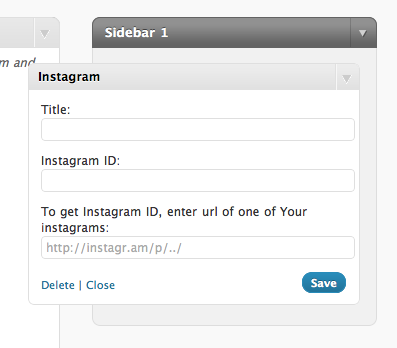
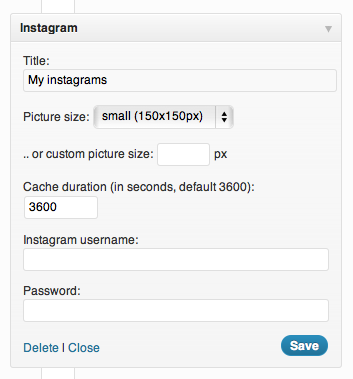
update to 0.3
git-svn-id: https://plugins.svn.wordpress.org/instagram-for-wordpress/trunk@461407 b8457f37-d9ea-0310-8a92-e5e31aec5664

diff --git a/wpinstagram.php b/wpinstagram.php
@@ -3,31 +3,31 @@
 	Plugin Name: Instagram for Wordpress
 	Plugin URI: http://wordpress.org/extend/plugins/instagram-for-wordpress/
 	Description: Simple sidebar widget that shows Your latest 20 instagr.am pictures and picture embedder.
-	Version: 0.2.7
+	Version: 0.3
 	Author: Eriks Remess
 	Author URI: http://twitter.com/EriksRemess
 */
 add_filter('plugin_row_meta', 'instagram_add_flattr_link', 10, 2);
 function instagram_add_flattr_link($links, $file){
 	$plugin = plugin_basename(__FILE__);
-	if($file == $plugin){
+	if($file == $plugin):
 		$links[] = '<a href="http://flattr.com/thing/124992/Instagr-am-WordPress-sidebar-widget" target="_blank">Flattr this</a>';
 		$links[] = '<a href="https://www.paypal.com/cgi-bin/webscr?cmd=_s-xclick&hosted_button_id=QBQQ8CTBF24C8" targer="_blank">Donate</a>';
-	}
+	endif;
 	return $links;
 }
 
 add_shortcode('instagram', 'instagram_embed_shortcode');
 function instagram_embed_shortcode($atts, $content = null){
-		
+
 	extract(shortcode_atts(array(
 		'url' => '',
 		'size' => 'middle',
 		'addlink' => 'yes'
 		), $atts));
-	
-	if(($url != '')&&(preg_match('/^http:\/\/instagr\.am\/p\/[a-zA-Z0-9-_]+\/$/', $url))) {
-		switch($size) {
+
+	if(($url != '')&&(preg_match('/^http:\/\/instagr\.am\/p\/[a-zA-Z0-9-_]+\/$/', $url))):
+		switch($size):
 			case 'large':
 				$maxwidth = 612;
 				break;
@@ -38,27 +38,28 @@ function instagram_embed_shortcode($atts, $content = null){
 			default:
 				$maxwidth = 306;
 				break;
-		}
+		endswitch;
 		$oembed_url = "http://instagr.am/api/v1/oembed/?url=".rawurlencode($url)."&maxwidth=".$maxwidth;
 		$ch = curl_init($oembed_url);
-		if(ini_get("open_basedir") == ""){
+		if(ini_get("open_basedir") == ""):
 			curl_setopt($ch, CURLOPT_FOLLOWLOCATION, 1);
-		}
+		endif;
 		curl_setopt($ch, CURLOPT_HEADER, 0);
 		curl_setopt($ch, CURLOPT_RETURNTRANSFER, 1);
-		curl_setopt($ch, CURLOPT_USERAGENT, "Instagram 1.18.17 (iPhone; iPhone OS 4.3.2; lv_LV)");
 		$data = curl_exec($ch);
 		$httpcode = curl_getinfo($ch, CURLINFO_HTTP_CODE);
-		if($httpcode >= 200 && $httpcode < 400){
+		if($httpcode >= 200 && $httpcode < 400):
 			$data = json_decode($data);
-			if($data->url){
+			if($data->url):
 				$html = '<img src="'.$data->url.'"'.($data->title!=''?' alt="'.$data->title.'"':'').' width="'.$maxwidth.'" height="'.$maxwidth.'" />';
-				if($addlink == 'yes') {
+				if($addlink == 'yes'):
 					return '<a href="'.$url.'"'.($data->title!=''?' title="'.$data->title.'"':'').'>'.$html.'</a>';
-				} else return $html;
-			}
-		}
-	}
+				else:
+					return $html;
+				endif;
+			endif;
+		endif;
+	endif;
 	return null;
 }
 
@@ -72,127 +73,122 @@ class WPInstagram_Widget extends WP_Widget {
 		$widget_ops = array( 'classname' => 'wpinstagram', 'description' => __('Displays latest 20 instagrams.', 'wpinstagram') );
 		$control_ops = array( 'width' => 300, 'height' => 350, 'id_base' => 'wpinstagram-widget' );
 		$this->WP_Widget( 'wpinstagram-widget', __('Instagram', 'wpinstagram'), $widget_ops, $control_ops );
-		
-		if( is_active_widget( '', '', 'wpinstagram-widget' ) ) {
-			$this->wpinstagram_path = get_bloginfo('wpurl').'/'.Str_Replace("\\", '/', SubStr(RealPath(DirName(__FILE__)), Strlen(ABSPATH)));
+
+		if(is_active_widget('','','wpinstagram-widget')&&!is_admin()):
+			$this->wpinstagram_path = plugin_dir_url( __FILE__ );
 			wp_enqueue_script("jquery");
-			wp_enqueue_script("jquery.cycle", $this->wpinstagram_path."/js/jquery.cycle-2.94.min.js", Array('jquery'), '2.94');
-			wp_enqueue_script("jquery.mousewhell", $this->wpinstagram_path."/js/jquery.mousewheel-3.0.4.pack.js", Array('jquery'), '3.0.4');
-			wp_enqueue_style("wpinstagram", $this->wpinstagram_path."/wpinstagram.css", Array(), '0.2.5');
-			if( in_array( 'fancybox-for-wordpress/fancybox.php', (array) get_option( 'active_plugins', array() ) ) == false ) {
-				wp_enqueue_script("fancybox", $this->wpinstagram_path."/js/jquery.fancybox-1.3.4.pack.js", Array('jquery'), '1.3.4');
-				wp_enqueue_style("fancybox-css", $this->wpinstagram_path."/js/fancybox/jquery.fancybox-1.3.4.css", Array(), '1.3.4');
-				wp_enqueue_script("jquery.easing", $this->wpinstagram_path."/js/jquery.easing-1.3.pack.js", Array('jquery'), '1.3');
-				wp_enqueue_script("wpinstagram", $this->wpinstagram_path."/js/wpinstagram.js", Array('jquery', 'jquery.cycle', 'fancybox'), '0.2.5');
-			} else {
-				wp_enqueue_script("wpinstagram", $this->wpinstagram_path."/js/wpinstagram-without-fancybox.js", Array('jquery',  'jquery.cycle'), '0.2.5');
-			}
-		}
-		
+			wp_enqueue_script("jquery.cycle", $this->wpinstagram_path."js/jquery.cycle-2.94.min.js", Array('jquery'), '2.94');
+			wp_enqueue_script("jquery.mousewhell", $this->wpinstagram_path."js/jquery.mousewheel-3.0.4.pack.js", Array('jquery'), '3.0.4');
+			wp_enqueue_style("wpinstagram", $this->wpinstagram_path."wpinstagram.css", Array(), '0.2.5');
+			if(in_array('fancybox-for-wordpress/fancybox.php',(array)get_option('active_plugins',array()))==false):
+				wp_enqueue_script("fancybox", $this->wpinstagram_path."js/jquery.fancybox-1.3.4.pack.js", Array('jquery'), '1.3.4');
+				wp_enqueue_style("fancybox-css", $this->wpinstagram_path."js/fancybox/jquery.fancybox-1.3.4.css", Array(), '1.3.4');
+				wp_enqueue_script("jquery.easing", $this->wpinstagram_path."js/jquery.easing-1.3.pack.js", Array('jquery'), '1.3');
+				wp_enqueue_script("wpinstagram", $this->wpinstagram_path."js/wpinstagram.js", Array('jquery', 'jquery.cycle', 'fancybox'), '0.3');
+			else:
+				wp_enqueue_script("wpinstagram", $this->wpinstagram_path."js/wpinstagram-without-fancybox.js", Array('jquery',  'jquery.cycle'), '0.3');
+			endif;
+		endif;
+
 	}
 
 	function widget( $args, $instance ) {
 		extract( $args );
 		$title = apply_filters('widget_title', $instance['title']);
-		$id = $instance['id'];
-		$cacheduration = $instance['cacheduration'];
-		if(!intval($cacheduration) || $cacheduration == ""){
-			$cacheduration = 3600;
-		}
-
-		if($id){
+		$cacheduration = (!intval($instance['cacheduration'])||$instance['cacheduration'] == "")?3600:$cacheduration;
+		if(isset($instance['access_token'])):
+			$id = $instance['id'];
 			$images = wp_cache_get('instagrams_'.$id, 'wpinstagram_cache');
-			if(false == $images) {
+			if(false == $images):
 				$images = $this->instagram_get_latest($instance);
 				wp_cache_set('instagrams_'.$id, $images, 'wpinstagram_cache', $cacheduration);
-			}
-			if(!empty($images)){
+			endif;
+			$images = $this->instagram_get_latest($instance);
+			if(!empty($images)):
 				echo $before_widget;
-				if($title){
+				if($title):
 					echo $before_title.$title.$after_title;
-				}
+				endif;
 				echo '<ul class="wpinstagram">';
-				foreach($images as $image){
+				foreach($images as $image):
 					echo '<li><a href="'.$image['image_large'].'" title="'.$image['title'].'" rel="wpinstagram">';
-					if($instance['customsize'] != ""){
-						if($instance['customsize'] <= 150){
-							echo '<img src="'.$image["image_small"].'" alt="'.$image['title'].'" width="'.$instance['customsize'].'" height="'.$instance['customsize'].'" />';
-						} elseif($instance['customsize'] <= 306 && $instance['customsize'] > 150){
-							echo '<img src="'.$image["image_middle"].'" alt="'.$image['title'].'" width="'.$instance['customsize'].'" height="'.$instance['customsize'].'" />';
-						} elseif($instance['customsize'] > 306){
-							echo '<img src="'.$image["image_large"].'" alt="'.$image['title'].'" width="'.$instance['customsize'].'" height="'.$instance['customsize'].'" />';
-						}
-					} else {
-						switch($instance['size']){
+					if($instance['customsize'] != ""):
+						$imagesize = $instance['customsize'];
+						if($instance['customsize'] <= 150):
+							$imagesrc = $image["image_small"];
+						elseif($instance['customsize'] <= 306 && $instance['customsize'] > 150):
+							$imagesrc = $image["image_middle"];
+						elseif($instance['customsize'] > 306):
+							$imagesrc = $image["image_large"];
+						endif;
+					else:
+						switch($instance['size']):
 							case 'large':
-								echo '<img src="'.$image["image_large"].'" alt="'.$image['title'].'" width="612" height="612" />';
+								$imagesrc = $image["image_large"];
+								$imagesize = 612;
 								break;
 							case 'middle':
-								echo '<img src="'.$image["image_middle"].'" alt="'.$image['title'].'" width="306" height="306" />';
+								$imagesrc = $image["image_middle"];
+								$imagesize = 306;
 								break;
 							case 'small':
 							default:
-								echo '<img src="'.$image["image_small"].'" alt="'.$image['title'].'" width="150" height="150" />';
+								$imagesrc = $image["image_small"];
+								$imagesize = 150;
 								break;
-						}
-					}
+						endswitch;
+					endif;
+					echo '<img src="'.$imagesrc.'" alt="'.$image['title'].'" width="'.$imagesize.'" height="'.$imagesize.'" />';
 					echo '</a></li>';
-				}
+				endforeach;
 				echo '</ul>';
 				echo $after_widget;
-			}
-		}
+			endif;
+		endif;
 	}
-	
-	function instagram_get_pk($url){
-		$ch = curl_init($url);
-		if(ini_get("open_basedir") == ""){
-			curl_setopt($ch, CURLOPT_FOLLOWLOCATION, 1);
-		}
-		curl_setopt($ch, CURLOPT_HEADER, 0);
-		curl_setopt($ch, CURLOPT_RETURNTRANSFER, 1);
-		curl_setopt($ch, CURLOPT_USERAGENT, "Instagram 1.18.17 (iPhone; iPhone OS 4.3.2; lv_LV)");
-		$data = curl_exec($ch);
-		$httpcode = curl_getinfo($ch, CURLINFO_HTTP_CODE);
-		if($httpcode >= 200 && $httpcode < 400){
-		    $pattern = "/\/profiles\/profile_([0-9]+)_/i";
-		    preg_match($pattern, $data, $matches);
-		    if(isset($matches[1]) && intval($matches[1])){
-		    	return $matches[1];
-		    } else return new WP_Error('couldnotgetid', __("Sorry, couldn't get Your instagram ID! Try another instagram url!"));
-		} else return new WP_Error('couldnotgetid', __("Sorry, couldn't access given url! Try another instagram url"));
+
+	function instagram_login($login, $pass){
+		$ch = curl_init("https://api.instagram.com/oauth/access_token");
+		curl_setopt ($ch, CURLOPT_POST, 1);
+		curl_setopt ($ch, CURLOPT_RETURNTRANSFER, 1);
+		curl_setopt ($ch, CURLOPT_POSTFIELDS, "username=" . $login . "&password=" . $pass . "&grant_type=password&client_id=90c2afb9762041138b620eb56710ca39&client_secret=c605ec6443e348e68643470fdc3ef02a");
+		$auth = json_decode(curl_exec($ch));
+		curl_close ($ch);
+		if(isset($auth->access_token)):
+			return $auth;
+		else:
+			return null;
+		endif;
 	}
-	
-	
+
 	function instagram_get_latest($instance){
 		$images = array();
-		if(intval($instance['id'])){
-			$ch = curl_init("http://instagr.am/api/v1/feed/user/".$instance['id']."/");
-			if(ini_get("open_basedir") == ""){
+		if($instance['access_token'] != null):
+			$ch = curl_init("https://api.instagram.com/v1/users/self/media/recent?access_token=".$instance['access_token']);
+			if(ini_get("open_basedir") == ""):
 				curl_setopt($ch, CURLOPT_FOLLOWLOCATION, 1);
-			}
+			endif;
 			curl_setopt($ch, CURLOPT_HEADER, 0);
 			curl_setopt($ch, CURLOPT_RETURNTRANSFER, 1);
-			curl_setopt($ch, CURLOPT_USERAGENT, "Instagram 1.18.17 (iPhone; iPhone OS 4.3.2; lv_LV)");
 			$data = curl_exec($ch);
 			$httpcode = curl_getinfo($ch, CURLINFO_HTTP_CODE);
-			if($httpcode >= 200 && $httpcode < 400){
+			if($httpcode >= 200 && $httpcode < 400):
 				$data = json_decode($data);
-				if($data->status == "ok"){
-					foreach($data->items as $item){
+				if($data->meta->code == 200):
+					foreach($data->data as $item):
 						$images[] = array(
-							"title" => (isset($item->comments[0])?$item->comments[0]->text:""),
-							"image_large" => $item->image_versions[0]->url,
-							"image_middle" => $item->image_versions[1]->url,
-							"image_small" => $item->image_versions[2]->url
+							"title" => (isset($item->caption->text)?filter_var($item->caption->text, FILTER_SANITIZE_STRING):""),
+							"image_small" => $item->images->thumbnail->url,
+							"image_middle" => $item->images->low_resolution->url,
+							"image_large" => $item->images->standard_resolution->url
 						);
-					}
-				}
-			}
-		}
+					endforeach;
+				endif;
+			endif;
+		endif;
 		return $images;
 	}
-	
+
 	function update( $new_instance, $old_instance ) {
 		$instance = $old_instance;
 		$instance['title'] = strip_tags( $new_instance['title'] );
@@ -200,29 +196,34 @@ class WPInstagram_Widget extends WP_Widget {
 		$instance['size'] = strip_tags( $new_instance['size'] );
 		$instance['customsize'] = strip_tags( $new_instance['customsize'] );
 		$instance['cacheduration'] = strip_tags( $new_instance['cacheduration'] );
-		
-		if(!intval($instance['customsize'])){
-			$instance['customsize'] = "";
-		}
-		if(!intval($instance['cacheduration'])){
-			$instance['cacheduration'] = 3600;
-		}
-		
-		if($new_instance['singleinstagram'] != ""){
-			$idcheck = $this->instagram_get_pk($new_instance['singleinstagram']);
-			if(is_wp_error($idcheck)){
-				echo $idcheck->get_error_message();
-				return $old_instance;
-			} else {
-				$instance['id'] = $idcheck;
-			}
-		}
+		if($new_instance['dologout'] == 1):
+			$instance['access_token'] = null;
+			$instance['login'] = null;
+			$instance['id'] = null;
+		endif;
+		if($new_instance['login'] != "" && $new_instance['pass'] != ""):
+			$auth = $this->instagram_login($new_instance['login'], $new_instance['pass']);
+			$instance['access_token'] = $auth->access_token;
+			$instance['login'] = $auth->user->username;
+			$instance['id'] = $auth->user->id;
+		endif;
+		$instance['customsize'] = intval($instance['customsize'])?$instance['customsize']:"";
+		$instance['cacheduration'] = intval($instance['cacheduration'])?$instance['cacheduration']:3600;
 		return $instance;
 	}
-	
+
 	function form( $instance ) {
-		$defaults = array( 'title' => __('My instagrams', 'wpinstagram'), 'id' => __('', 'wpinstagram'), 'size' => __('small', 'wpinstagram'), 'customsize' => __('', 'wpinstagram'), 'cacheduration' => __('3600', 'wpinstagram') );
-		$instance = wp_parse_args( (array) $instance, $defaults ); ?>
+		$defaults = array(
+			'title' => __('My instagrams', 'wpinstagram'),
+			'id' => __('', 'wpinstagram'),
+			'size' => __('small', 'wpinstagram'),
+			'customsize' => __('', 'wpinstagram'),
+			'cacheduration' => __('3600', 'wpinstagram'),
+			'login' => __('', 'wpinstagram'),
+			'pass' => __('', 'wpinstagram'),
+			'dologout' => __('0', 'wpinstagram')
+		);
+		$instance = wp_parse_args((array)$instance, $defaults); ?>
 		<p>
 			<label for="<?php echo $this->get_field_id( 'title' ); ?>"><?php _e('Title:', 'hybrid'); ?></label>
 			<input id="<?php echo $this->get_field_id( 'title' ); ?>" name="<?php echo $this->get_field_name( 'title' ); ?>" value="<?php echo $instance['title']; ?>" class="widefat" />
@@ -241,17 +242,34 @@ class WPInstagram_Widget extends WP_Widget {
 			</label>
 		</p>
 		<p>
-			<label for="<?php echo $this->get_field_id( 'id' ); ?>"><?php _e('Instagram ID:', 'wpinstagram'); ?></label>
-			<input id="<?php echo $this->get_field_id( 'id' ); ?>" name="<?php echo $this->get_field_name( 'id' ); ?>" type="text" value="<?php echo $instance['id']; ?>" class="widefat" />
-		</p>
-		<p>
-			<label for="<?php echo $this->get_field_id( 'singleinstagram' ); ?>"><?php _e('To get Instagram ID, enter url of one of Your instagrams:', 'wpinstagram'); ?></label>
-			<input id="<?php echo $this->get_field_id( 'singleinstagram' ); ?>" name="<?php echo $this->get_field_name( 'singleinstagram' ); ?>" type="text" value="<?php echo $instance['singleinstagram']; ?>" class="widefat" placeholder="http://instagr.am/p/../" />
-		</p>
-		<p>
 			<label for="<?php echo $this->get_field_id( 'cacheduration' ); ?>"><?php _e('Cache duration (in seconds, default 3600):', 'wpinstagram'); ?></label>
-			<input type="text" name="<?php echo $this->get_field_name( 'cacheduration' ); ?>" id="<?php echo $this->get_field_id( 'cacheduration' ); ?>" value="<?php echo $instance['cacheduration'];?>" />
+			<input type="text" name="<?php echo $this->get_field_name( 'cacheduration' ); ?>" id="<?php echo $this->get_field_id( 'cacheduration' ); ?>" value="<?php echo $instance['cacheduration'];?>" size="6" />
 		</p>
+		<?php if(!isset($instance['access_token'])): ?>
+		<p>
+			<label for="<?php echo $this->get_field_id( 'login' ); ?>"><?php _e('Instagram username:', 'wpinstagram'); ?></label>
+			<input id="<?php echo $this->get_field_id( 'login' ); ?>" name="<?php echo $this->get_field_name( 'login' ); ?>" type="text" value="" class="widefat" />
+		</p>
+		<p>
+			<label for="<?php echo $this->get_field_id( 'pass' ); ?>"><?php _e('Password:', 'wpinstagram'); ?></label>
+			<input id="<?php echo $this->get_field_id( 'pass' ); ?>" name="<?php echo $this->get_field_name( 'pass' ); ?>" type="password" class="widefat" />
+		</p>
+		<?php else: ?>
+		<p>
+			<input type="hidden" value="0" name="<?php echo $this->get_field_name( 'dologout' ); ?>" id="<?php echo $this->get_field_id( 'dologout' ); ?>" />
+			<label for="<?php echo $this->get_field_id( 'logoutbutton' ); ?>"><?php _e('Logged in as: ', 'wpinstagram'); echo $instance['login']; ?></label>
+			<button id="<?php echo $this->get_field_id( 'logoutbutton' ); ?>" class="button-secondary">Logout from Instagram</button>
+			<script>
+				jQuery(document).ready(function($){
+					$("#<?php echo $this->get_field_id( 'logoutbutton' ); ?>").click(function(){
+						$("#<?php echo $this->get_field_id( 'dologout' ); ?>").val("1");
+						$(this).parents("form").find("input[type=submit]").click();
+						return false;
+					});
+				});
+			</script>
+		</p>
+		<?php endif; ?>
 	<?php
 	}
 }
